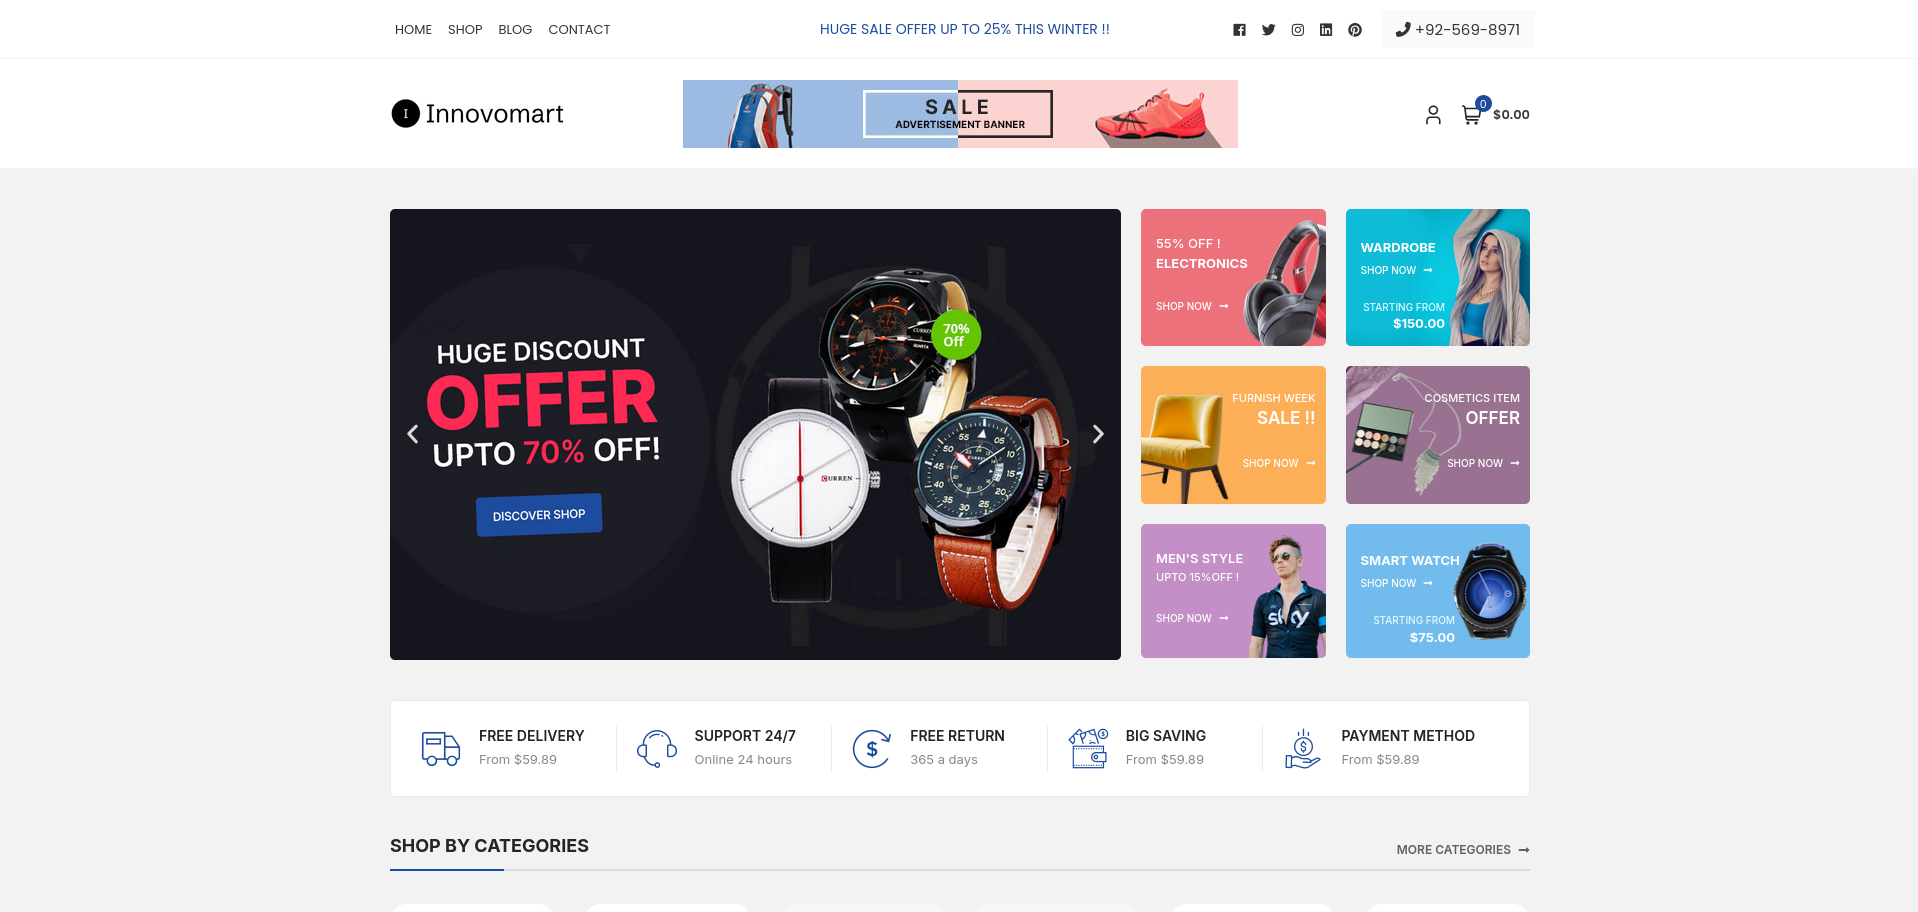
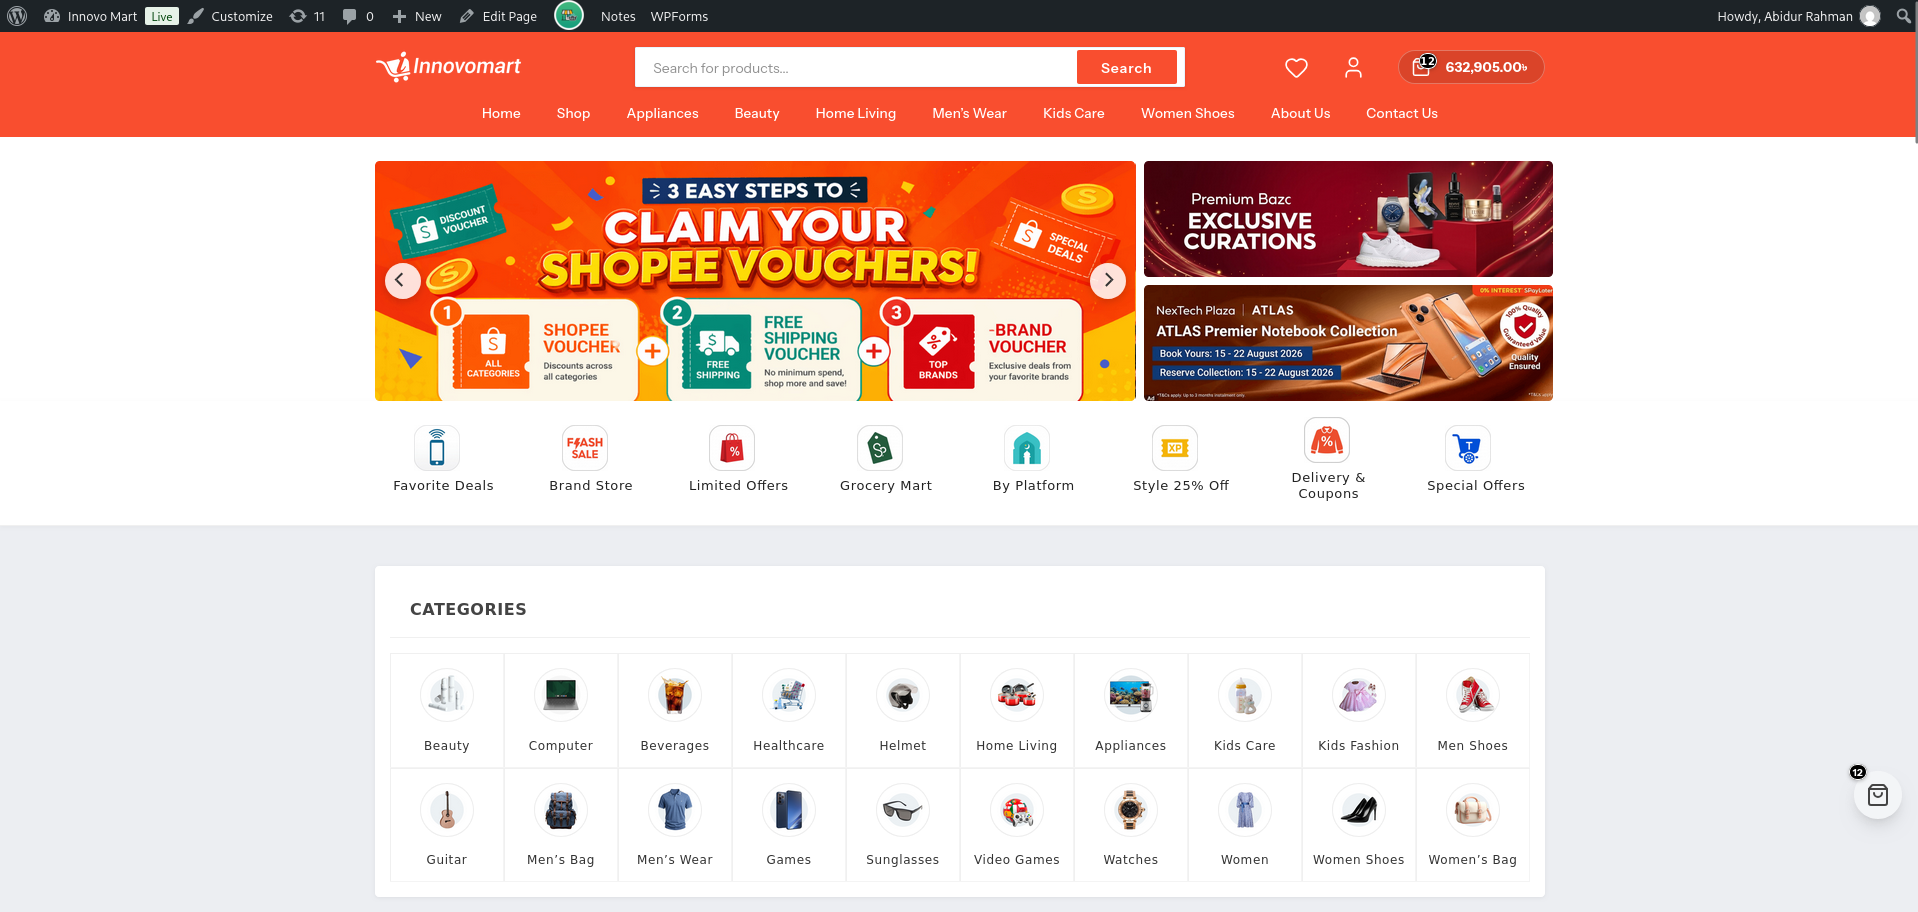
ss

diff --git a/src/components/Works.tsx b/src/components/Works.tsx
@@ -33,7 +33,7 @@ export const projectsData = [
     img: "/cyntrafold-overview.jpg",
     description:
       "A cross-platform enterprise device monitoring platform processing millions of activity records from hundreds of endpoints.",
-    year: "2024",
+    year: "2026",
     demoUrl: "#",
     githubUrl: "#",
   },
@@ -45,7 +45,7 @@ export const projectsData = [
     img: "/kaajLagbe-HiPages-BD-MVP.png",
     description:
       "A comprehensive SaaS platform providing job placement and business solutions.",
-    year: "2024",
+    year: "2026",
     demoUrl: "https://kaajlagbe.com",
     githubUrl: "#",
   },
@@ -57,7 +57,7 @@ export const projectsData = [
     img: "/ChatTime-AI-Intelligent-Conversational-Platform.png",
     description:
       "An AI-powered SaaS application built with Next.js for intelligent conversations.",
-    year: "2024",
+    year: "2025",
     demoUrl: "https://chattimeai.com",
     githubUrl: "#",
   },
@@ -93,7 +93,7 @@ export const projectsData = [
     img: "/Innovo-Exports-Imports-–-You-want-it-We-build-it-best-.png",
     description:
       "A professional export-import business website built with WordPress.",
-    year: "2024",
+    year: "2025",
     demoUrl: "https://innovoexportimport.com/",
     githubUrl: "#",
   },
@@ -105,7 +105,7 @@ export const projectsData = [
     img: "/Innovomart-–-Innovomart.png",
     description:
       "A digital e-commerce storefront platform built with WordPress.",
-    year: "2024",
+    year: "2026",
     demoUrl: "https://innovomart.com/",
     githubUrl: "#",
   },
@@ -117,7 +117,7 @@ export const projectsData = [
     img: "/Electro-Mechanical-–-Matin-Haji-Company-LTD.png",
     description:
       "A corporate website for Matin Haji Company Ltd. in Saudi Arabia.",
-    year: "2023",
+    year: "2024",
     demoUrl: "https://matinhajiksa.com/",
     githubUrl: "#",
   },
@@ -129,7 +129,7 @@ export const projectsData = [
     img: "/ghotion.png",
     description:
       "A local business directory and corporate website built with WordPress.",
-    year: "2023",
+    year: "2026",
     demoUrl: "#",
     githubUrl: "#",
   },
@@ -141,7 +141,7 @@ export const projectsData = [
     img: "/Health-Solutions.png",
     description:
       "A high-conversion Bangla-language digital course selling platform focused on relationship, intimacy, and health education.",
-    year: "2023",
+    year: "2025",
     demoUrl: "https://vynteex.com",
     githubUrl: "#",
   },
@@ -153,7 +153,7 @@ export const projectsData = [
     img: "/GuideFNF.png",
     description:
       "An educational landing page platform dynamically managed with Payload CMS.",
-    year: "2024",
+    year: "2026",
     demoUrl: "https://englishfnf.vercel.app/",
     githubUrl: "#",
   },
@@ -165,7 +165,7 @@ export const projectsData = [
     img: "/Payload-Blank-Template.png",
     description:
       "A product-focused e-commerce landing page featuring variant selection.",
-    year: "2024",
+    year: "2026",
     demoUrl: "https://vynteex.xyz",
     githubUrl: "#",
   },
